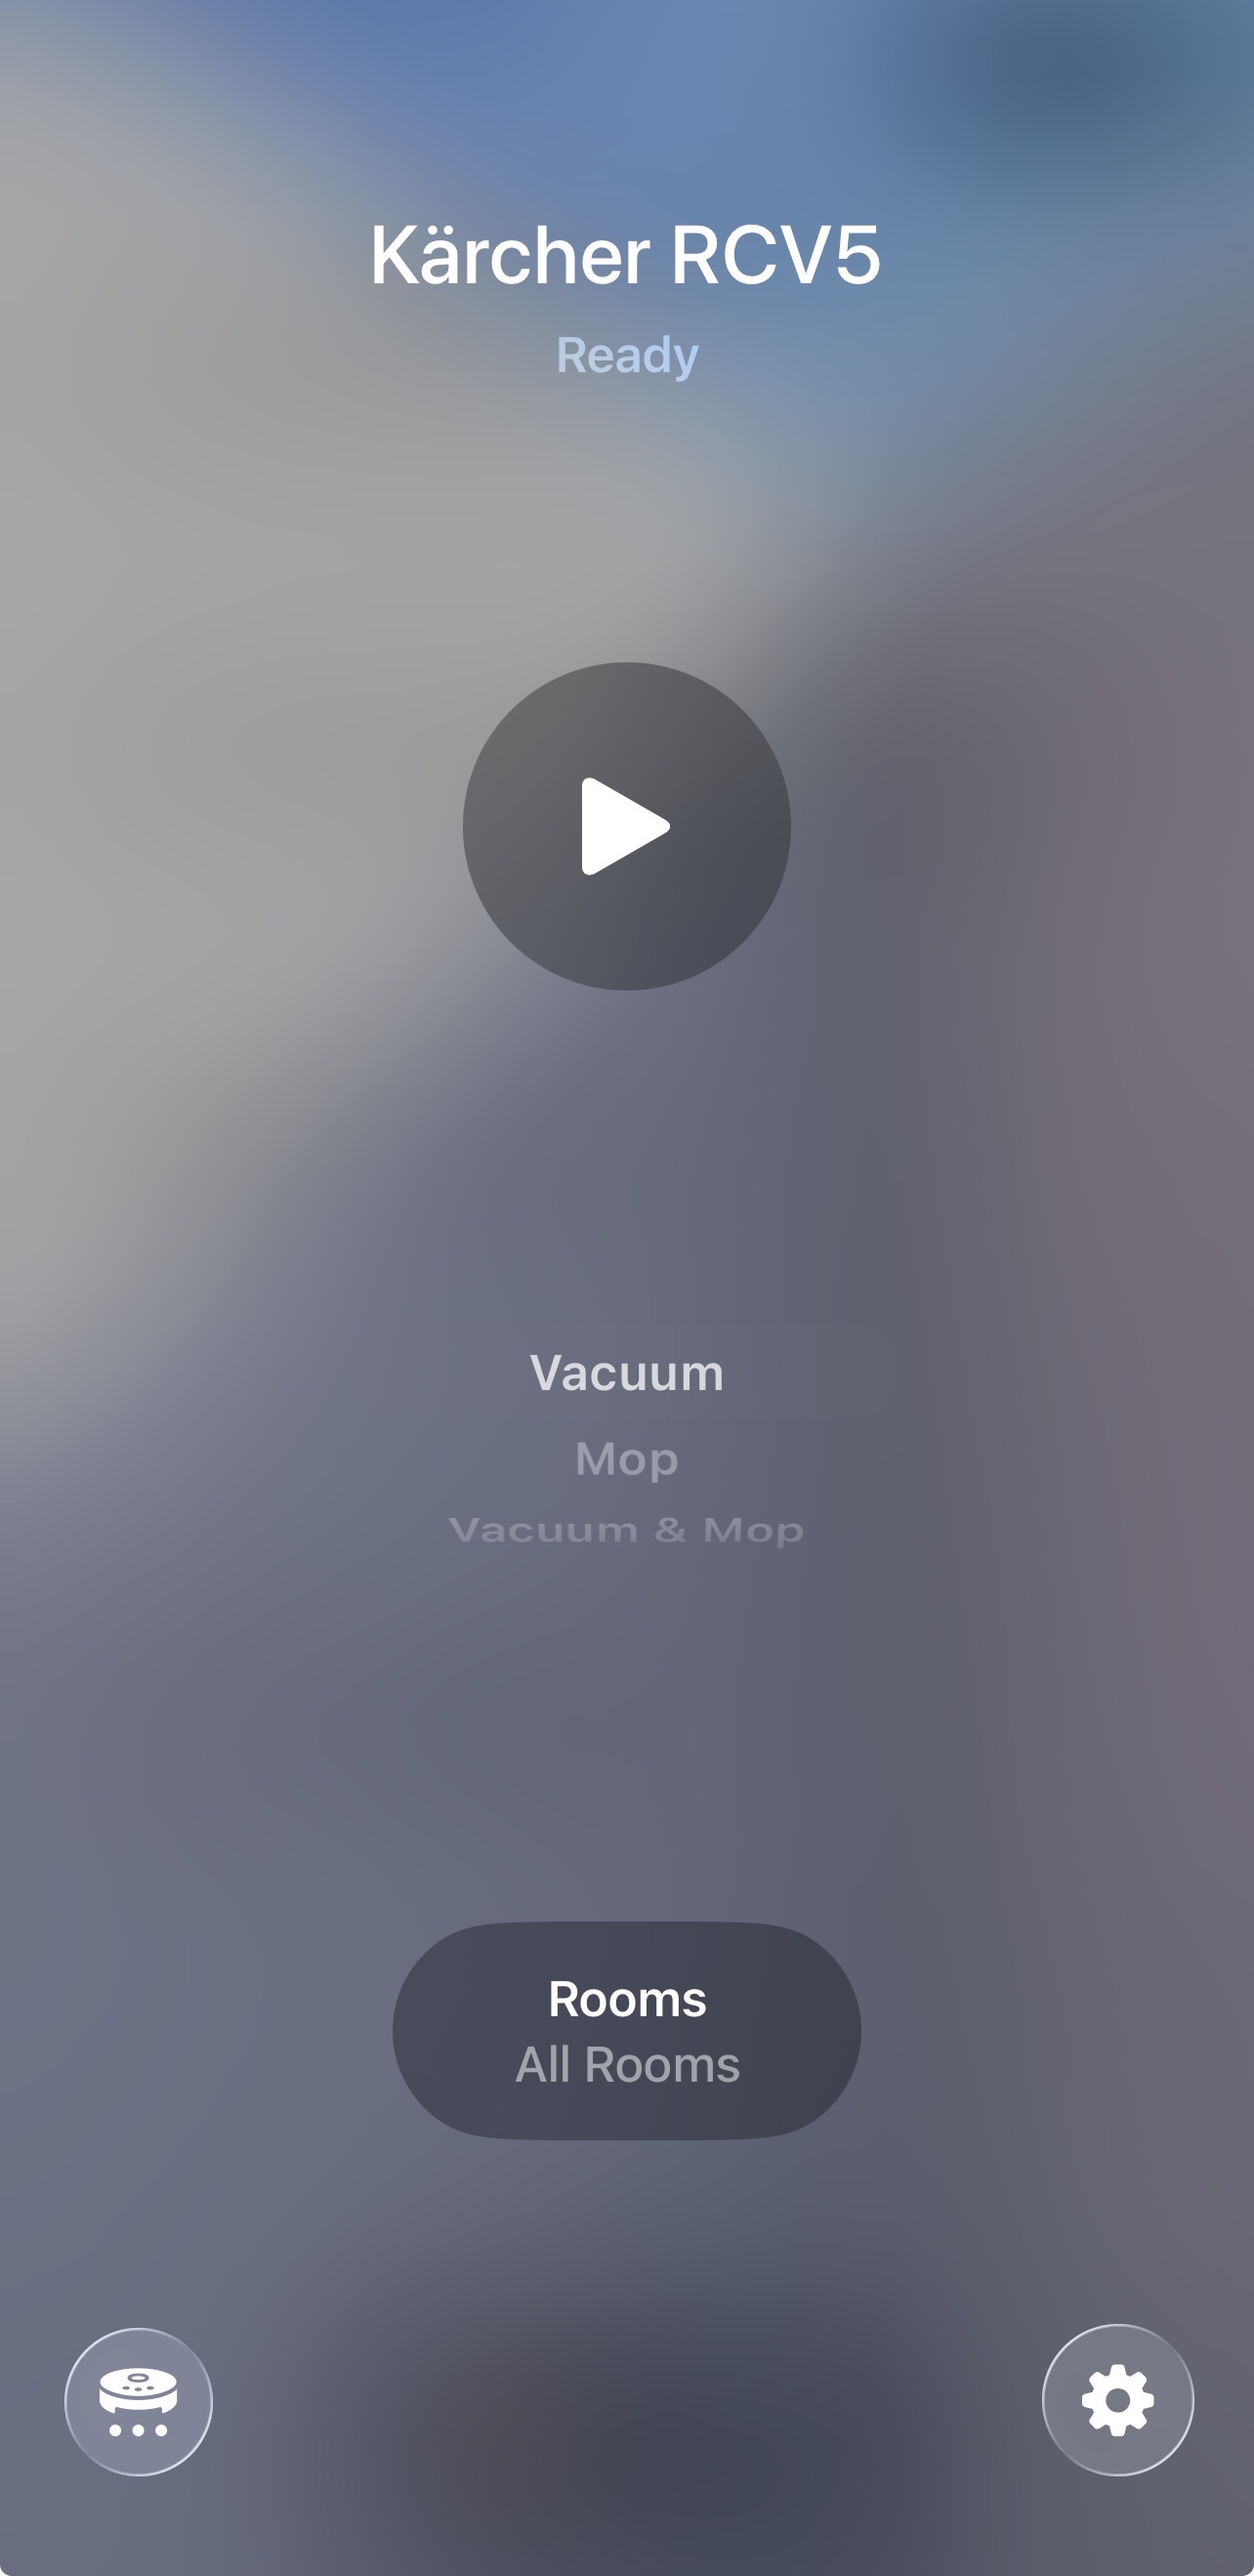
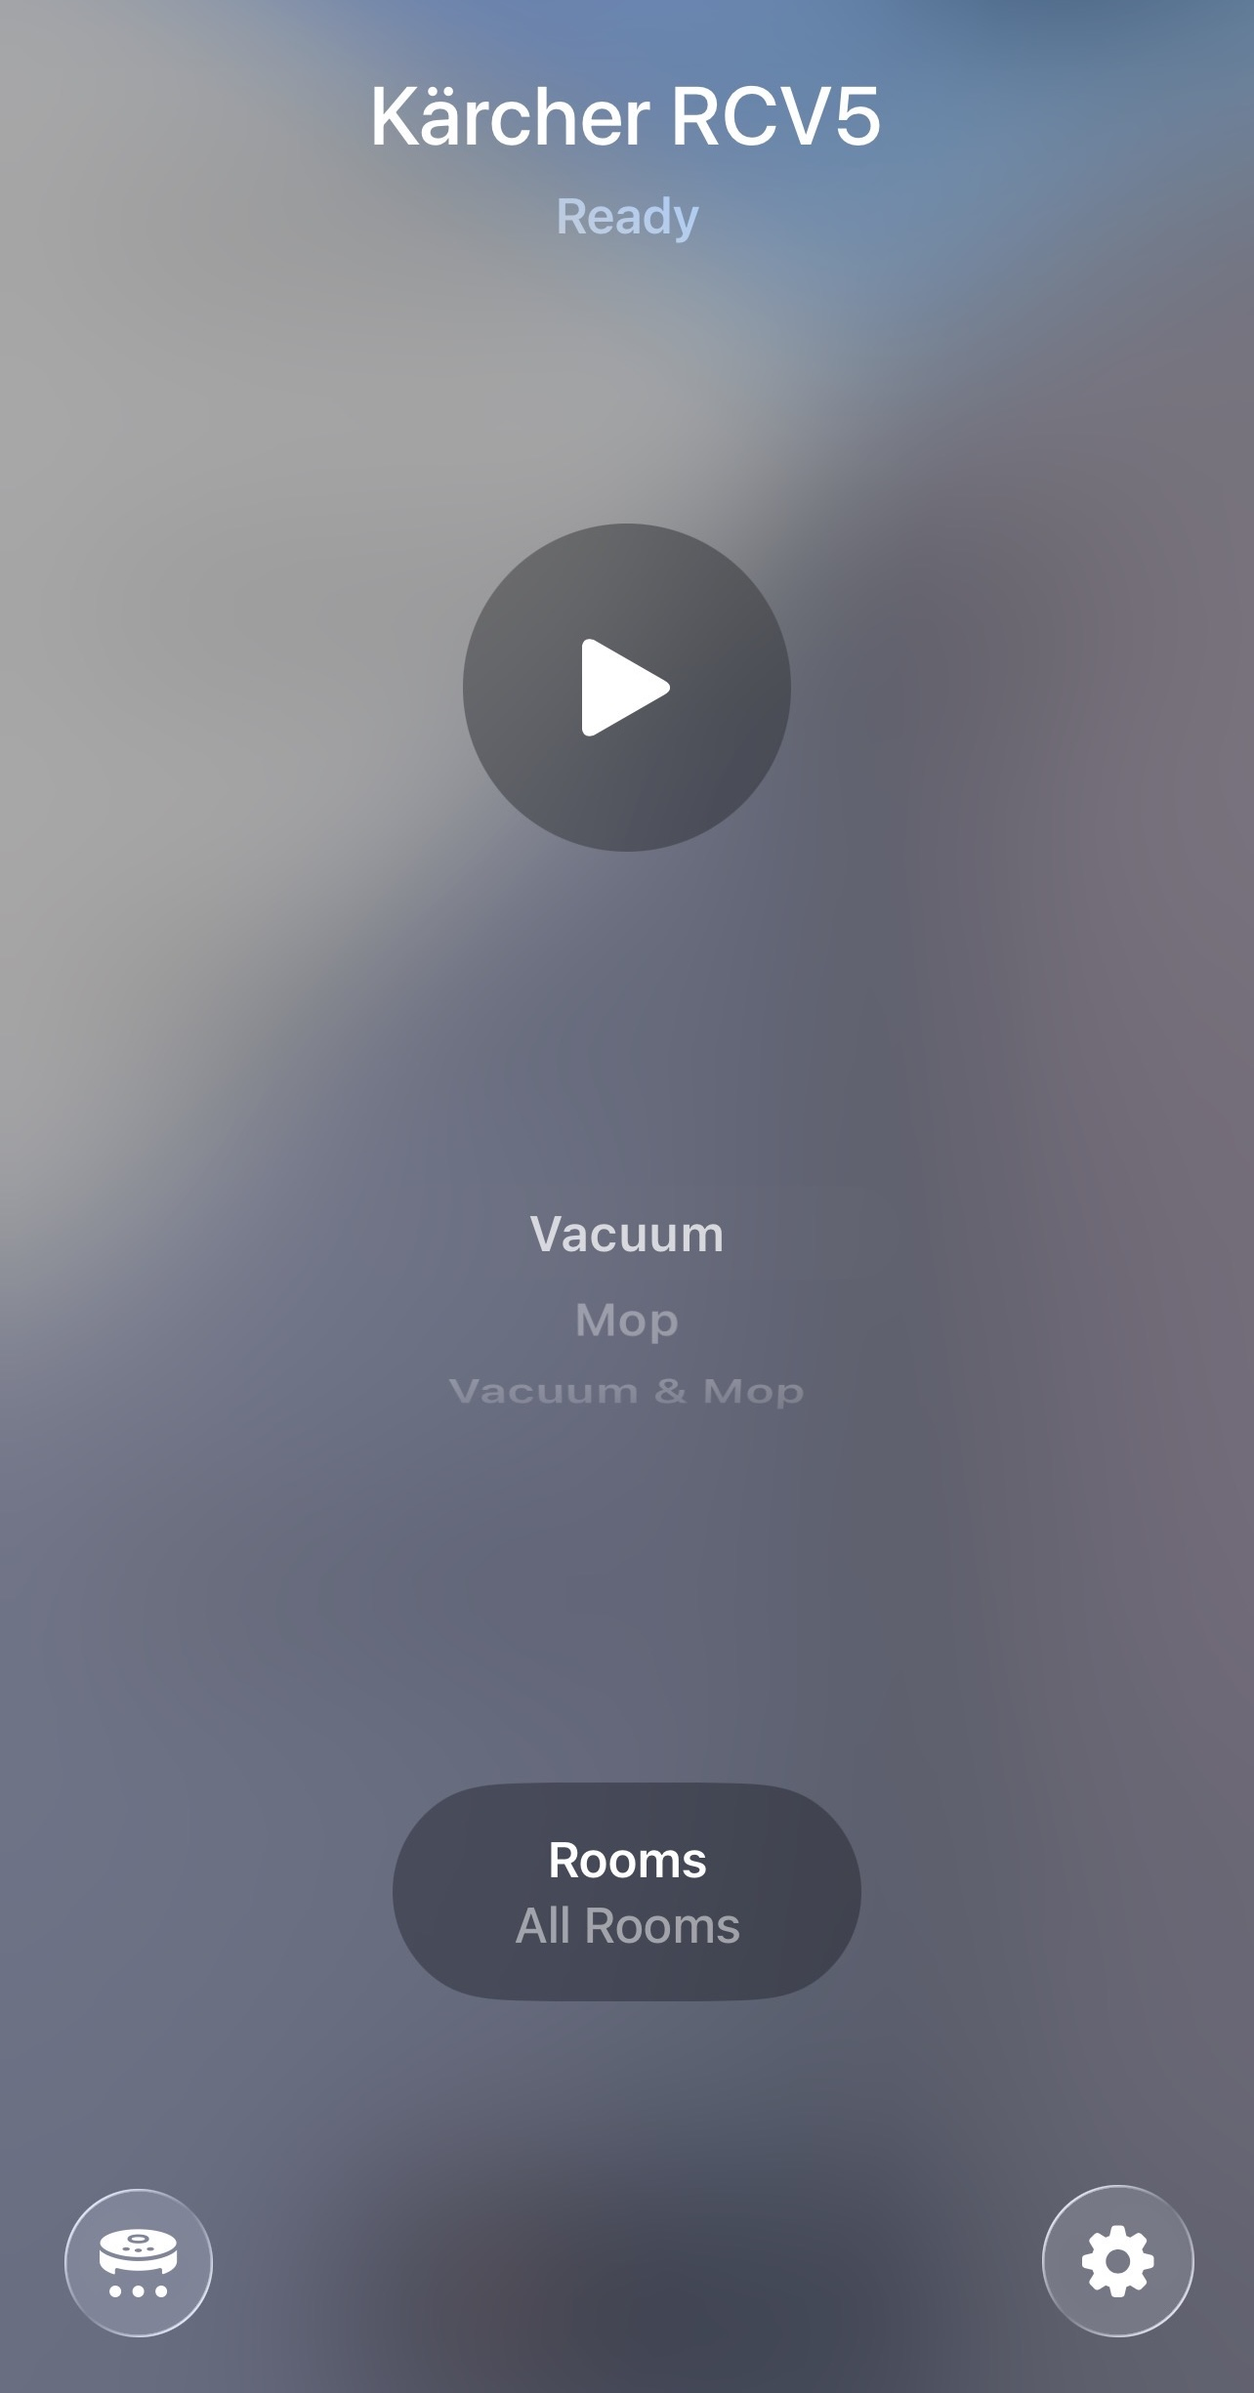
Add Home Assistant screenshot, show alongside Apple Home side-by-side

diff --git a/README.md b/README.md
@@ -36,7 +36,12 @@ Unofficial community-built integration for the **Kärcher RCV5** robot vacuum. P
 | Area cleaning | ✓ | — |
 | Per-room progress rings | — | ✓ |
 
-![Apple Home](img/Apple_Home_screenshot.jpg)
+<table>
+<tr>
+<td><img src="img/Home_Assistant_Screenshot.jpg" width="280" alt="Home Assistant"></td>
+<td><img src="img/Apple_Home_screenshot.jpg" width="280" alt="Apple Home"></td>
+</tr>
+</table>
 
 ---
 
